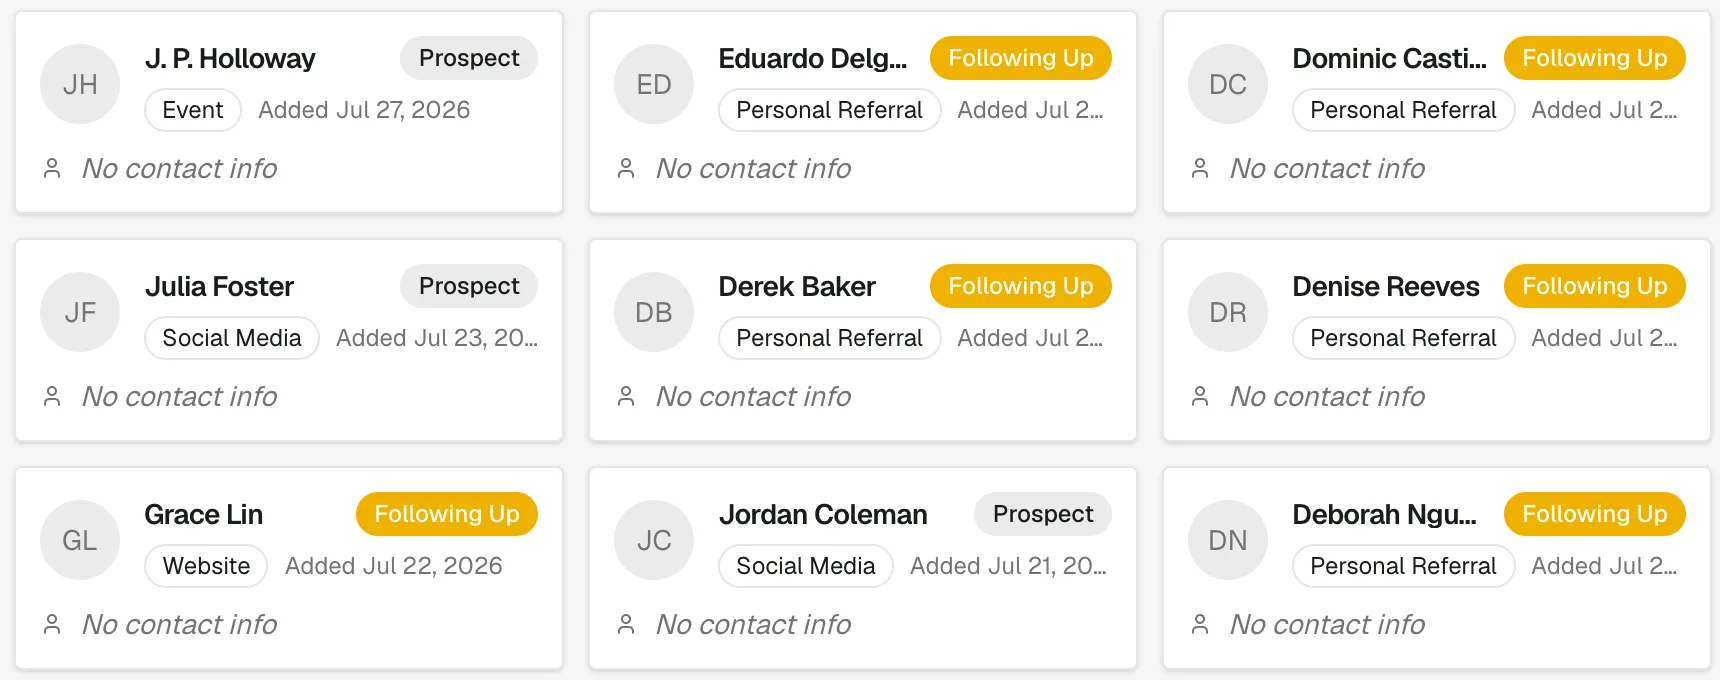
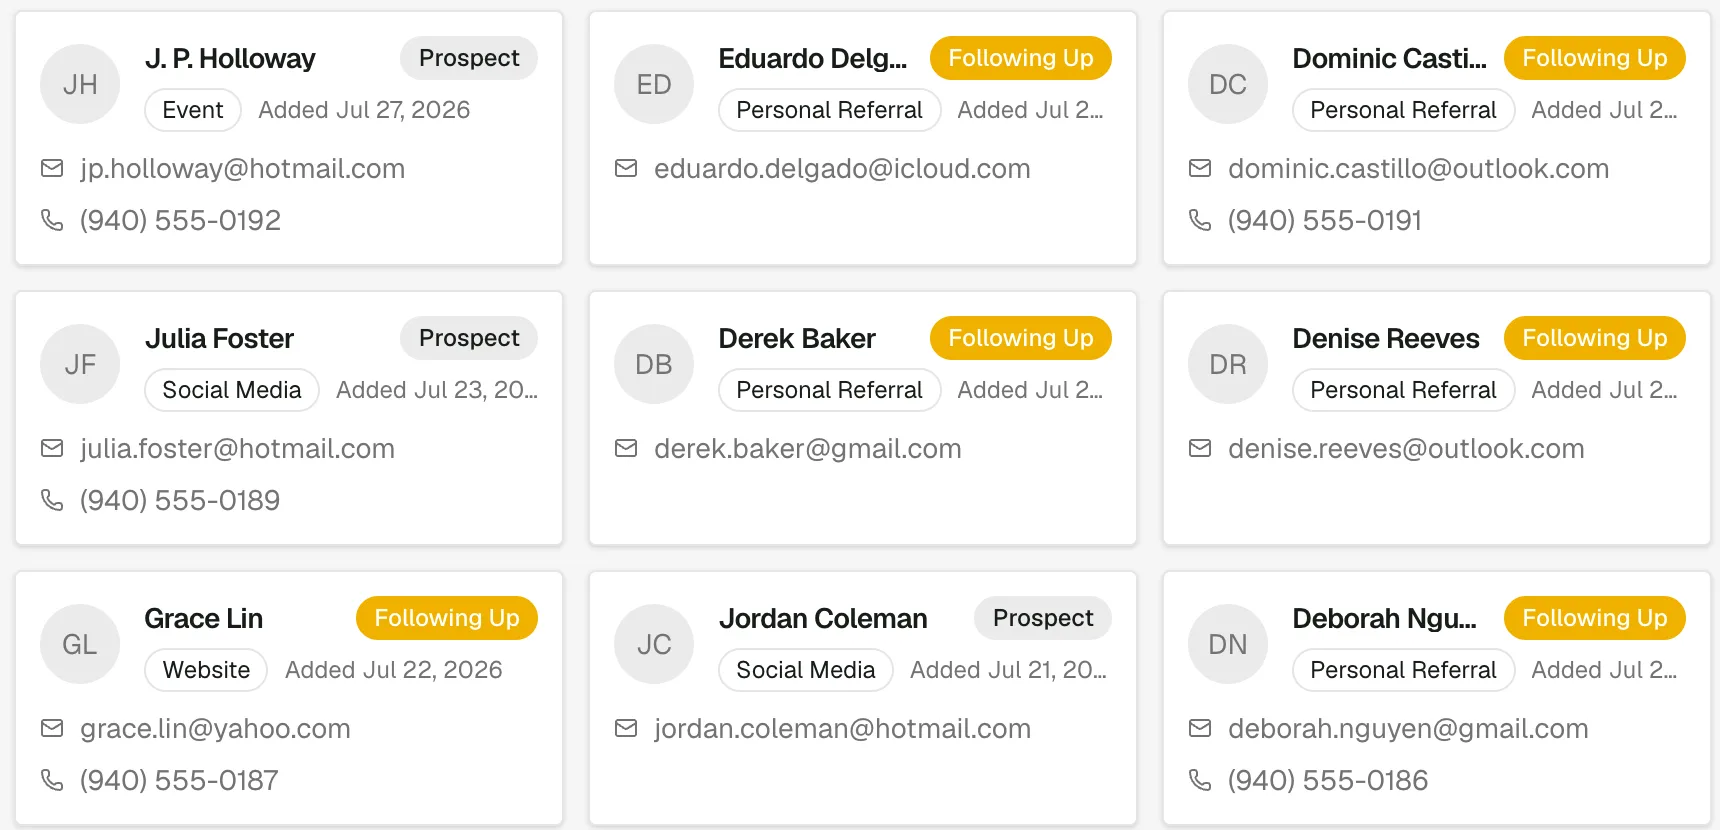
fix(marketing): people cards carry real contact info — no more 'No contact info'
Data patch (scripts/patch-contact-info.ts, run 2026-08-02 against dev) gives
all 196 marketing-seed people a name-derived email and a fictional-range
(940) 555-01xx phone; the seed script now generates the same at insert time
so a future reseed keeps it. The two people masters were reshot (contact
mode in the capture rig) and the six people-sourced crops recut — cards got
taller, so crop boxes and component dims shifted with them. Sam Torres's
row fell below the capture viewport, so the People pane now stars Grace Lin.

diff --git a/scripts/patch-contact-info.ts b/scripts/patch-contact-info.ts
@@ -1,0 +1,101 @@
+/**
+ * One-off patch (ruled 2026-08-02): give every marketing-seed person contact
+ * info so people cards stop reading "No contact info" in landing screenshots.
+ *
+ * The seed now generates email/phone at insert time (see contactInfo() in
+ * seed-marketing-church.ts); this script back-fills the CURRENTLY LIVE seed
+ * data in place, because a reseed would discard the approved LLM assessment.
+ * Touches ONLY persons rows (both marketing churches) where email AND phone
+ * are null. Safe to re-run.
+ *
+ * Usage: pnpm exec tsx scripts/patch-contact-info.ts
+ */
+
+import { neon } from "@neondatabase/serverless";
+import { config } from "dotenv";
+import { asc, and, eq, isNull } from "drizzle-orm";
+import { drizzle } from "drizzle-orm/neon-http";
+
+import { churches, persons, sendingNetworks } from "../src/db/schema";
+
+config({ path: ".env.local" });
+
+const connectionString = process.env.DATABASE_URL;
+if (!connectionString) {
+  console.error("❌ DATABASE_URL environment variable is required");
+  process.exit(1);
+}
+
+const sql = neon(connectionString);
+const db = drizzle(sql);
+
+const NETWORK_NAME = "North Texas Church Planting Network";
+
+// Mirrors contactInfo() in seed-marketing-church.ts: name-derived email on a
+// rotating consumer domain; reserved-fictional (940) 555-01xx phones for ~2/3.
+const EMAIL_DOMAINS = [
+  "gmail.com",
+  "yahoo.com",
+  "outlook.com",
+  "icloud.com",
+  "hotmail.com",
+] as const;
+
+async function main() {
+  const [network] = await db
+    .select({ id: sendingNetworks.id })
+    .from(sendingNetworks)
+    .where(eq(sendingNetworks.name, NETWORK_NAME))
+    .limit(1);
+  if (!network) throw new Error(`Network not found: ${NETWORK_NAME}`);
+
+  const churchRows = await db
+    .select({ id: churches.id, name: churches.name })
+    .from(churches)
+    .where(eq(churches.sendingNetworkId, network.id));
+  if (churchRows.length === 0) throw new Error("No marketing churches found");
+
+  const usedEmails = new Set<string>();
+  let phoneCounter = 0;
+
+  for (const church of churchRows) {
+    const rows = await db
+      .select({
+        id: persons.id,
+        firstName: persons.firstName,
+        lastName: persons.lastName,
+      })
+      .from(persons)
+      .where(
+        and(
+          eq(persons.churchId, church.id),
+          isNull(persons.email),
+          isNull(persons.phone),
+          isNull(persons.deletedAt)
+        )
+      )
+      .orderBy(asc(persons.createdAt));
+
+    let patched = 0;
+    for (const [i, row] of rows.entries()) {
+      const clean = (s: string) => s.toLowerCase().replace(/[^a-z]/g, "");
+      let email = `${clean(row.firstName)}.${clean(row.lastName)}@${EMAIL_DOMAINS[i % EMAIL_DOMAINS.length]}`;
+      if (usedEmails.has(email)) {
+        email = `${clean(row.firstName)}.${clean(row.lastName)}${i}@${EMAIL_DOMAINS[i % EMAIL_DOMAINS.length]}`;
+      }
+      usedEmails.add(email);
+      const phone =
+        i % 3 !== 0 && phoneCounter < 100
+          ? `(940) 555-01${String(phoneCounter++).padStart(2, "0")}`
+          : null;
+      await db
+        .update(persons)
+        .set({ email, phone })
+        .where(eq(persons.id, row.id));
+      patched++;
+    }
+    console.log(`${church.name}: patched ${patched} people`);
+  }
+}
+
+main().then(() => process.exit(0));

diff --git a/scripts/seed-marketing-church.ts b/scripts/seed-marketing-church.ts
@@ -320,6 +320,38 @@ function fillerName(i: number): { firstName: string; lastName: string } {
   };
 }
 
+// Deterministic personal contact info so people cards never read "No contact
+// info" (ruled 2026-08-02 off the landing crops). Emails come from the name +
+// a rotating consumer domain; phones use the reserved-fictional 555-01xx range
+// (Denton's 940 area code) for roughly two thirds of people.
+const EMAIL_DOMAINS = [
+  "gmail.com",
+  "yahoo.com",
+  "outlook.com",
+  "icloud.com",
+  "hotmail.com",
+] as const;
+const usedEmails = new Set<string>();
+let phoneCounter = 0;
+
+function contactInfo(
+  firstName: string,
+  lastName: string,
+  i: number
+): { email: string; phone: string | null } {
+  const clean = (s: string) => s.toLowerCase().replace(/[^a-z]/g, "");
+  let email = `${clean(firstName)}.${clean(lastName)}@${EMAIL_DOMAINS[i % EMAIL_DOMAINS.length]}`;
+  if (usedEmails.has(email)) {
+    email = `${clean(firstName)}.${clean(lastName)}${i}@${EMAIL_DOMAINS[i % EMAIL_DOMAINS.length]}`;
+  }
+  usedEmails.add(email);
+  const phone =
+    i % 3 !== 0 && phoneCounter < 100
+      ? `(940) 555-01${String(phoneCounter++).padStart(2, "0")}`
+      : null;
+  return { email, phone };
+}
+
 // ============================================================================
 // Cleanup — scoped strictly to marketing-namespaced rows (child-first)
 // ============================================================================
@@ -889,6 +921,14 @@ async function seedRedemptionHill(
     },
   ];
 
+  castRows.forEach((row, i) => {
+    if (!row.email && !row.phone) {
+      const info = contactInfo(row.firstName, row.lastName, i);
+      row.email = info.email;
+      row.phone = info.phone;
+    }
+  });
+
   const cast = await db.insert(persons).values(castRows).returning({
     id: persons.id,
     firstName: persons.firstName,
@@ -994,10 +1034,13 @@ async function seedRedemptionHill(
     const rows: PersonInsert[] = [];
     for (let i = 0; i < bucket.count; i++) {
       const { firstName, lastName } = fillerName(nameIndex++);
+      const info = contactInfo(firstName, lastName, nameIndex);
       rows.push({
         churchId,
         firstName,
         lastName,
+        email: info.email,
+        phone: info.phone,
         status: bucket.status,
         source: bucket.source,
         createdBy: planterId,
@@ -2139,6 +2182,7 @@ async function seedTrinityGrove(
       churchId,
       firstName: "Marcus",
       lastName: "Bell",
+      email: TG_PLANTER_EMAIL,
       status: "leader",
       source: "other",
       createdBy: planterId,
@@ -2158,10 +2202,17 @@ async function seedTrinityGrove(
   ): PersonInsert[] =>
     Array.from({ length: count }, (_, i) => {
       const { firstName, lastName } = fillerName(TG_NAME_OFFSET + startIdx + i);
+      const info = contactInfo(
+        firstName,
+        lastName,
+        TG_NAME_OFFSET + startIdx + i
+      );
       return {
         churchId,
         firstName,
         lastName,
+        email: info.email,
+        phone: info.phone,
         status,
         source: "vision_meeting" as const,
         createdBy: planterId,

diff --git a/src/app/(marketing)/_components/phase-tabs.tsx b/src/app/(marketing)/_components/phase-tabs.tsx
@@ -62,12 +62,12 @@ const PHASES: readonly Phase[] = [
     desktop: {
       src: "/marketing/shots/pt-coregroup.webp",
       width: 1720,
-      height: 680,
+      height: 830,
     },
     mobile: {
       src: "/marketing/shots/pt-coregroup-m.webp",
       width: 575,
-      height: 680,
+      height: 830,
     },
     alt: "People cards moving through the pipeline — J. P. Holloway a new prospect from an event, Grace Lin in follow-up from the website.",
   },
@@ -85,12 +85,12 @@ const PHASES: readonly Phase[] = [
     desktop: {
       src: "/marketing/shots/pt-launch-team.webp",
       width: 1185,
-      height: 700,
+      height: 810,
     },
     mobile: {
       src: "/marketing/shots/pt-launch-team-m.webp",
       width: 622,
-      height: 770,
+      height: 810,
     },
     alt: "The People screen filtered to the committed — 61 total, Core Group badges on every card.",
   },

diff --git a/src/app/(marketing)/_components/feature-switcher.tsx b/src/app/(marketing)/_components/feature-switcher.tsx
@@ -24,14 +24,14 @@ const FEATURES: readonly Feature[] = [
     desktop: {
       src: "/marketing/shots/fs-people.webp",
       width: 1155,
-      height: 680,
+      height: 813,
     },
     mobile: {
       src: "/marketing/shots/fs-people-m.webp",
-      width: 580,
-      height: 680,
+      width: 575,
+      height: 813,
     },
-    alt: "People cards from the Redemption Hill pipeline — Sam Torres marked Attendee, Grace Lin marked Following Up.",
+    alt: "People cards from the Redemption Hill pipeline — Grace Lin following up from the website, contact info and source on every card.",
   },
   {
     key: "meetings",
